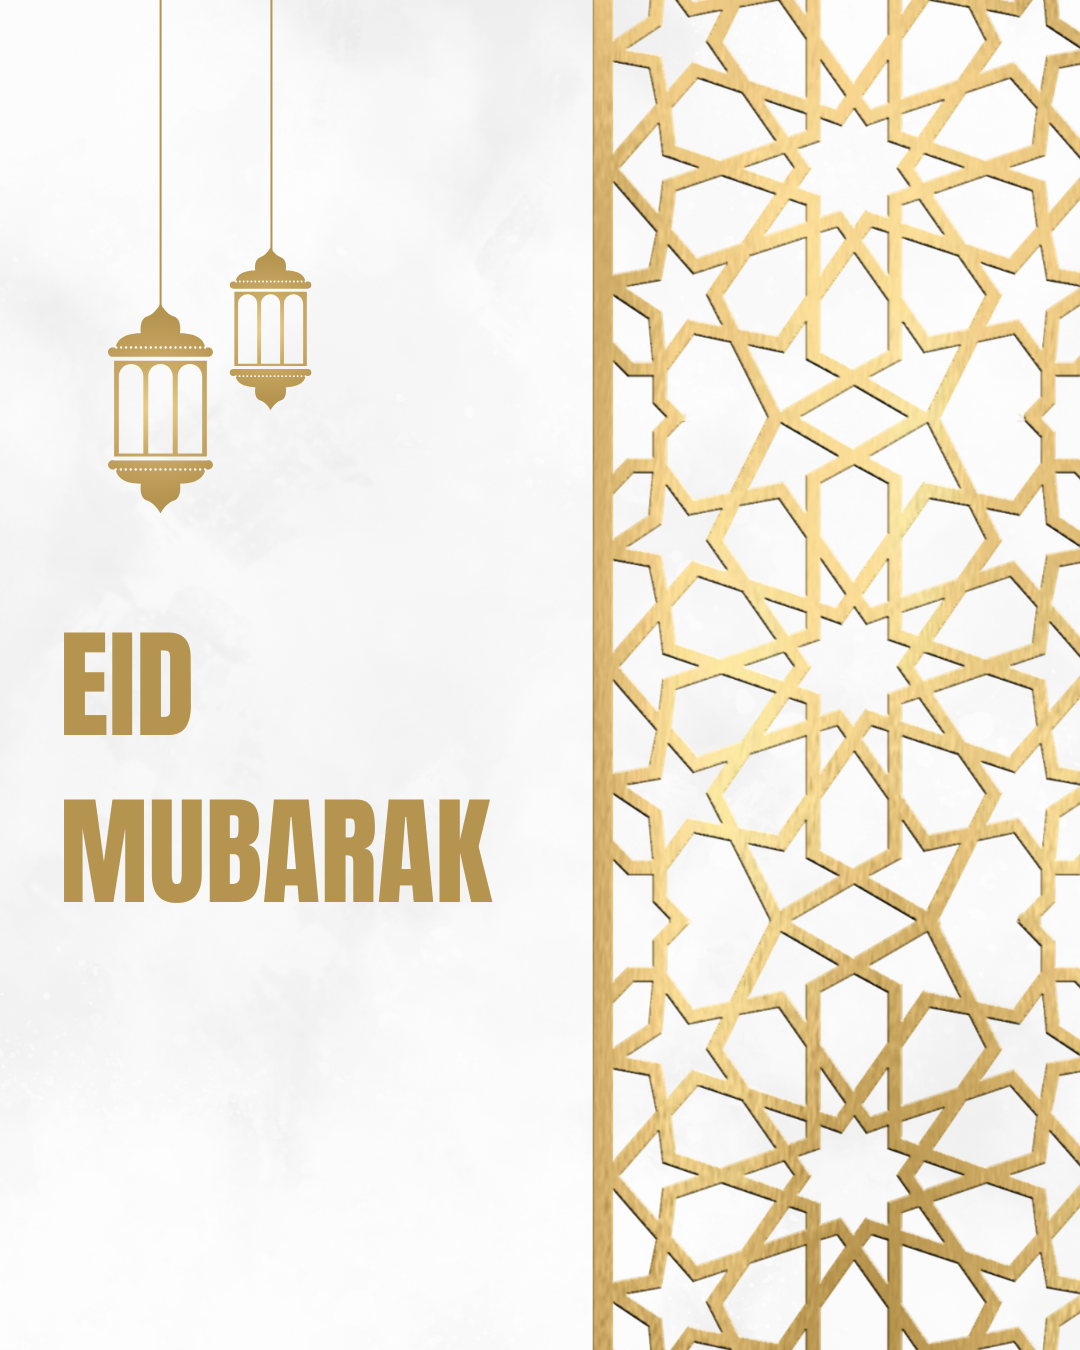
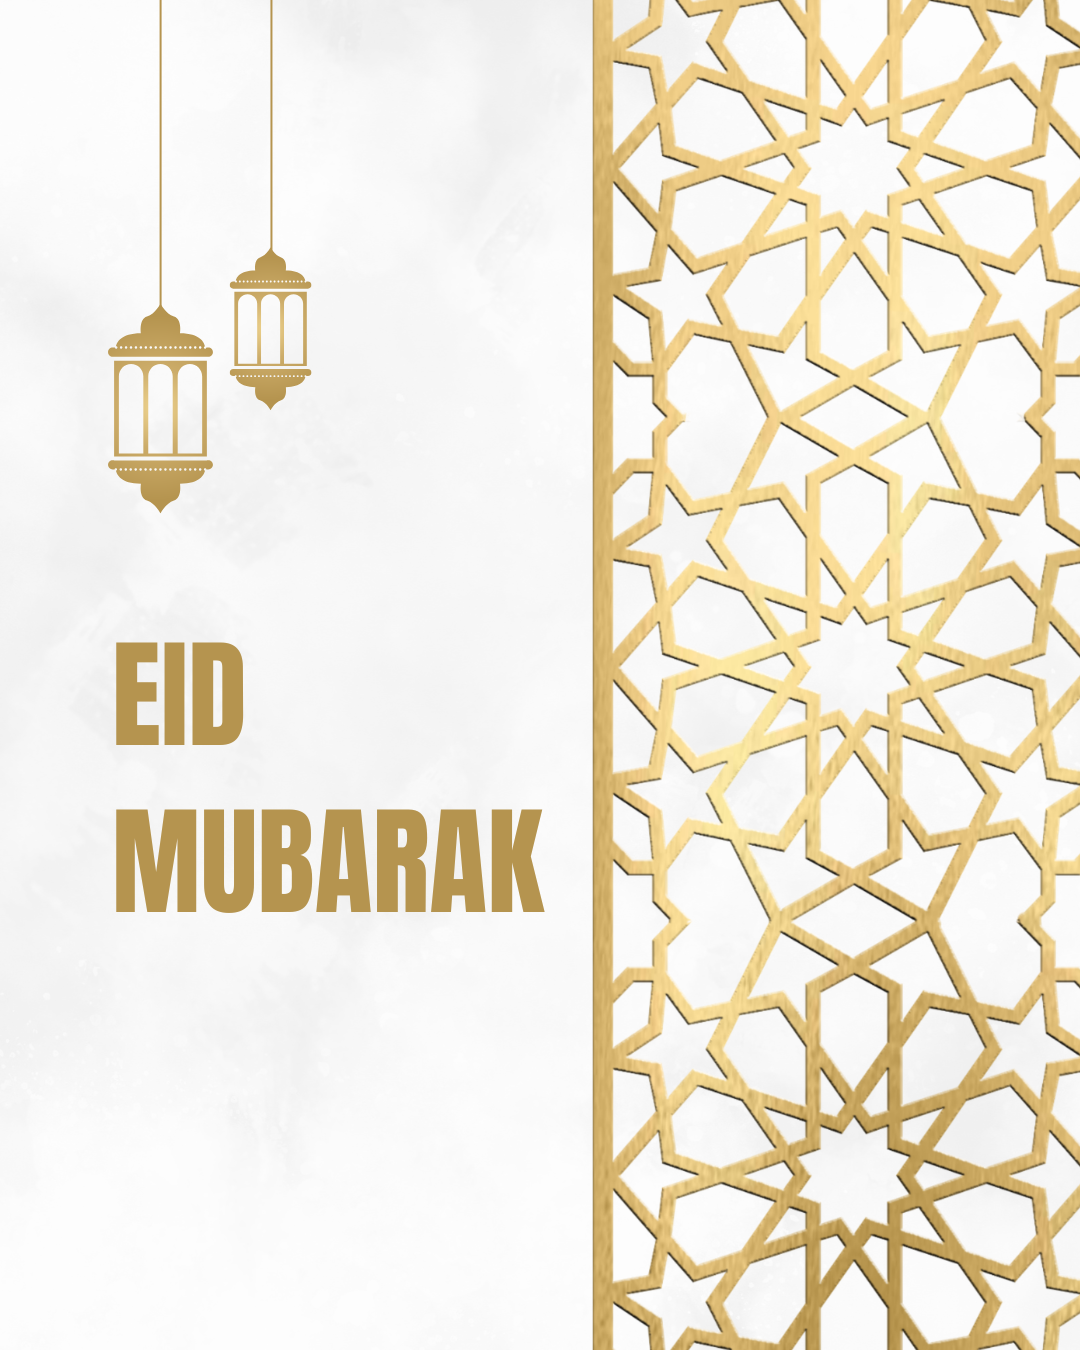
some templates added

Changed region(s): [[0.0611, 0.5911, 0.5194, 0.6844], [0.0611, 0.4667, 0.2444, 0.56]]

diff --git a/eid-cards/app/components/EidCard.tsx b/eid-cards/app/components/EidCard.tsx
@@ -15,13 +15,11 @@ export default function EidCard({ receiver, message, sender, themeId }: any) {
 
   return (
     <div className="flex flex-col items-center justify-center w-full p-4">
-      {/* The Container */}
       <div
         className="relative w-full max-w-[320px] h-[460px] cursor-pointer"
         onClick={() => setIsOpen(!isOpen)}
         style={{ perspective: "2500px" }}
       >
-        {/* THE BACK PAGE (The one that stays still) */}
         <div className="absolute inset-0 w-full h-full bg-[#fdfdfd] rounded-2xl shadow-lg border border-gray-100 p-10 flex flex-col justify-center text-center">
           <div className="space-y-4">
             <h3 className="text-amber-600 font-playfair text-lg tracking-widest uppercase mb-2">
@@ -37,20 +35,18 @@ export default function EidCard({ receiver, message, sender, themeId }: any) {
               <p className="text-xl font-playfair text-gray-900">{sender || "Someone"}</p>
             </div>
           </div>
-          {/* Spine Shadow Effect */}
           <div className="absolute top-0 left-0 w-4 h-full bg-gradient-to-r from-black/5 to-transparent rounded-l-2xl" />
         </div>
 
-        {/* THE FRONT COVER (The one that flips) */}
         <motion.div
           className="w-full h-full relative z-30"
           style={{
             transformStyle: "preserve-3d",
-            transformOrigin: "left" // This makes it flip like a book/card
+            transformOrigin: "left" 
           }}
           animate={{
             rotateY: isOpen ? -110 : 0,
-            x: isOpen ? 15 : 0 // Subtle shift to keep it centered when open
+            x: isOpen ? 15 : 0 
           }}
           transition={{ duration: 1.5, ease: [0.4, 0, 0.2, 1] }}
         >
@@ -67,7 +63,7 @@ export default function EidCard({ receiver, message, sender, themeId }: any) {
             </div>
           </div>
 
-          {/* INNER COVER FACE (What you see on the left side when card is open) */}
+          {/* INNER COVER FACE  */}
           <div
             className="absolute inset-0 w-full h-full bg-[#fcfcfc] rounded-2xl z-10"
             style={{
@@ -76,7 +72,7 @@ export default function EidCard({ receiver, message, sender, themeId }: any) {
               transform: "rotateY(180deg)"
             }}
           >
-            {/* This adds a "paper" look to the back of the cover */}
+            {/* paper look to the back of the cover */}
             <div className="w-full h-full bg-gradient-to-l from-black/5 to-transparent rounded-2xl opacity-50" />
             <div className="absolute inset-0 flex items-center justify-center opacity-10 grayscale">
               <img src={coverImage} className="w-24 h-24 object-contain" alt="" />

diff --git a/eid-cards/app/page.tsx b/eid-cards/app/page.tsx
@@ -36,6 +36,10 @@ const COVERS = [
   { id: 8, name: "Pink Lantern Dream", image: "/cover8.png" },
   { id: 9, name: "Geometric Gold Pattern", image: "/cover9.png" },
   { id: 10, name: "Eid Meowbarak Cat", image: "/cover10.png" },
+  { id: 11, name: "Sage Mosque Silhouette", image: "/cover11.jpeg" },
+  { id: 12, name: "Floral Pastels & Lanterns", image: "/cover12.jpeg" },
+  { id: 13, name: "Monochrome Palms & Lanterns", image: "/cover13.jpeg" },
+  { id: 14, name: "Midnight Botanical", image: "/cover14.png" },
 ];
 
 export default function HomePage() {
@@ -133,7 +137,7 @@ export default function HomePage() {
                 <p className="text-center mt-3 text-xs font-medium text-slate-600 italic">{COVERS[themeIndex].name}</p>
               </div>
 
-              {/* Names - FIXED COLOR HERE */}
+              {/* Names */}
               <div className="flex gap-4">
                   <div className="flex-1">
                     <label className="text-[9px] uppercase tracking-widest text-gray-400 ml-2 mb-1 block">From</label>
@@ -153,7 +157,7 @@ export default function HomePage() {
                   </div>
               </div>
 
-              {/* Wishes - FIXED COLOR HERE */}
+              {/* Wishes  */}
               <div className="bg-gray-50 rounded-[2rem] p-6 border border-gray-100">
                 <label className="text-[9px] uppercase tracking-widest text-gray-400 mb-4 block text-center font-bold">2. Choose a Wish</label>
                 <div className="flex items-center justify-between gap-2">

diff --git a/eid-cards/app/card/[id]/page.tsx b/eid-cards/app/card/[id]/page.tsx
@@ -30,14 +30,14 @@ export default async function CardPage({ params }: { params: Promise<{ id: strin
   return (
     <main className="min-h-screen bg-[#FDFBF7] flex flex-col items-center justify-between py-12 px-6">
       
-      {/* 1. Header Hint for Friend */}
+      {/*  Header */}
       <div className="text-center animate-bounce mt-4">
         <span className="bg-amber-100 text-amber-800 px-4 py-1.5 rounded-full text-[10px] font-bold tracking-widest uppercase shadow-sm">
           ✨ Tap the card to open ✨
         </span>
       </div>
 
-      {/* 2. The Card Container */}
+      {/* Card Container */}
       <div className="flex-1 flex items-center justify-center w-full max-w-lg">
         <EidCard 
           receiver={card.receiver_name} 
@@ -47,7 +47,7 @@ export default async function CardPage({ params }: { params: Promise<{ id: strin
         />
       </div>
 
-      {/* 3. Footer: Create Your Own Card */}
+      {/* Footer */}
       <div className="w-full max-w-md text-center mt-12 mb-8 space-y-4">
         <p className="text-slate-400 text-xs italic font-playfair">
           Liked this? Send a greeting back to {card.sender_name}!
